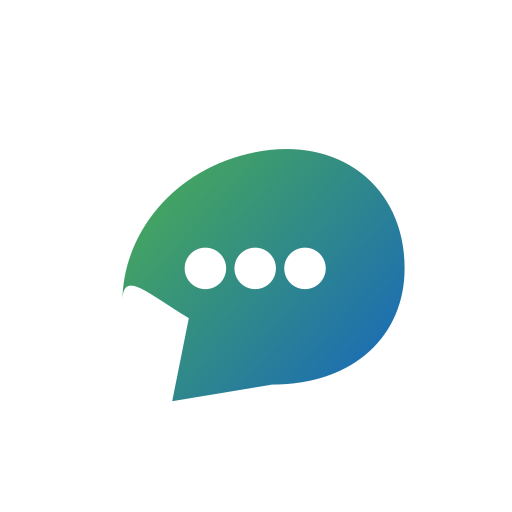
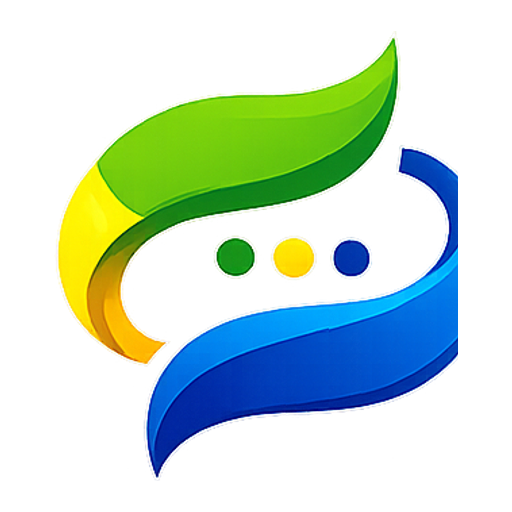
Preenche dados jurídicos reais e remove identidade do produto comercial do painel
Termos de Uso, Política de Privacidade e Exclusão de Dados: preenche
razão social, CNPJ, e-mail de suporte e e-mail do DPO com os dados
reais da empresa, e remove os banners amarelos de placeholder (os
pontos que ainda exigem decisão jurídica/comercial específica — valor
dos planos e prazo de retenção pós-eleição — ficam como TODO mais
direcionado, para revisão com a advogada).

PWA do painel: o manifest.json, o título da aba, o texto do botão de
instalação e os ícones (192/512) ainda eram os do produto SyncroFlow
comercial — o usuário instalando o app via navegador via "SyncroFlow"
genérico com o ícone de balão de chat, não "SyncroFlowEleições". Gera
novos ícones a partir do logo eleitoral e atualiza nome/descrição em
todos os pontos.

Remove também o Meta Pixel e o Google Analytics do layout do painel
eleitoral — eram os mesmos IDs do produto comercial, misturando
métricas de tráfego entre os dois produtos. Removido apenas do painel
eleitoral; o código permanece intacto para uso no produto comercial.

diff --git a/apps/landing/privacidade.html b/apps/landing/privacidade.html
@@ -51,19 +51,17 @@
 <div class="container">
   <div class="doc-header">
     <h1>Política de Privacidade</h1>
-    <p class="meta">Última atualização: <strong><!-- TODO: data real --></strong> &nbsp;|&nbsp; Versão 1.0 &nbsp;|&nbsp; Em conformidade com a <strong>LGPD (Lei nº 13.709/2018)</strong> e a <strong>Resolução TSE nº 23.755/2026</strong></p>
+    <p class="meta">Última atualização: <strong>27 de junho de 2026</strong> &nbsp;|&nbsp; Versão 1.0 &nbsp;|&nbsp; Em conformidade com a <strong>LGPD (Lei nº 13.709/2018)</strong> e a <strong>Resolução TSE nº 23.755/2026</strong></p>
   </div>
-
-  <div class="todo">⚠ TODO JURÍDICO: documento placeholder. Revisar com advogado especializado em LGPD e direito eleitoral antes da publicação, especialmente as seções de retenção de dados de eleitores e compartilhamento com provedores de IA.</div>
 
   <div class="highlight">
     <p>Esta Política descreve como o SyncroFlowEleições coleta, usa, armazena e protege os dados pessoais de candidatos, suas equipes de campanha e dos eleitores que interagem com o assistente virtual.</p>
   </div>
 
   <h2>1. Quem Somos (Controlador de Dados)</h2>
-  <p><strong>Razão social:</strong> <!-- TODO: razão social e CNPJ --><br>
+  <p><strong>Razão social:</strong> Glaucio Luiz Pimentel de Oliveira, CNPJ 37.815.890/0001-08 (nome fantasia NuClick Sistemas)<br>
   <strong>Plataforma:</strong> SyncroFlowEleições<br>
-  <strong>E-mail do Encarregado (DPO):</strong> <!-- TODO: e-mail do DPO --></p>
+  <strong>E-mail do Encarregado (DPO):</strong> mendespimenteladv@gmail.com (Dra. Ana Paula Mendes Pimentel)</p>
 
   <h2>2. Quais Dados Coletamos</h2>
 
@@ -108,7 +106,7 @@
   <h2>3. Cookies e Tecnologias de Rastreamento</h2>
   <ul>
     <li><strong>Cookies essenciais:</strong> necessários para o funcionamento da plataforma (autenticação, sessão). Não podem ser desativados.</li>
-    <li><strong>Cookies analíticos/marketing:</strong> <!-- TODO: declarar ferramentas de analytics/pixel próprias do SyncroFlowEleições, se houver --></li>
+    <li><strong>Cookies analíticos/marketing:</strong> <!-- TODO: declarar aqui se/quando ferramentas de analytics ou pixel próprias do SyncroFlowEleições forem adicionadas (hoje a landing não usa nenhuma) --></li>
   </ul>
 
   <h2>4. Como Usamos os Dados</h2>
@@ -125,7 +123,7 @@
   <div class="table-wrap">
     <table>
       <tr><th>Parceiro / Serviço</th><th>Finalidade</th><th>Onde está</th></tr>
-      <tr><td>Supabase</td><td>Banco de dados e autenticação</td><td><!-- TODO: confirmar região do projeto novo --></td></tr>
+      <tr><td>Supabase</td><td>Banco de dados e autenticação</td><td>Estados Unidos (Ohio — us-east-2)</td></tr>
       <tr><td>Stripe</td><td>Processamento de pagamentos</td><td>Estados Unidos</td></tr>
       <tr><td>Anthropic / OpenAI</td><td>Processamento de mensagens pelo modelo de IA</td><td>Estados Unidos</td></tr>
       <tr><td>Meta (WhatsApp, Instagram, Facebook)</td><td>Envio/recebimento de mensagens via API oficial</td><td>Estados Unidos</td></tr>
@@ -140,7 +138,7 @@
       <tr><th>Tipo de dado</th><th>Prazo de retenção</th></tr>
       <tr><td>Dados de conta ativa</td><td>Enquanto a conta estiver ativa</td></tr>
       <tr><td>Histórico de conversas durante o período eleitoral</td><td><strong>Não pode ser excluído durante o período eleitoral</strong> — preservação obrigatória para auditoria conforme a Resolução TSE nº 23.755/2026</td></tr>
-      <tr><td>Logs de auditoria</td><td><!-- TODO: definir prazo pós-eleição em conformidade com orientação do TSE --></td></tr>
+      <tr><td>Logs de auditoria</td><td><!-- TODO JURÍDICO: definir prazo de retenção pós-eleição em conformidade com orientação do TSE, a confirmar com a Dra. Ana Paula Mendes Pimentel --></td></tr>
       <tr><td>Dados fiscais e financeiros</td><td>5 anos (obrigação legal)</td></tr>
     </table>
   </div>
@@ -163,7 +161,7 @@
     <li><strong>Portabilidade</strong> dos dados a outro fornecedor.</li>
     <li><strong>Revogação do consentimento</strong>, quando aplicável.</li>
   </ul>
-  <p>Para exercer esses direitos, envie solicitação para <!-- TODO: e-mail de contato -->. Responderemos em até 15 dias úteis.</p>
+  <p>Para exercer esses direitos, envie solicitação para syncrofloweleicoes@gmail.com. Responderemos em até 15 dias úteis.</p>
 
   <h2>9. Dados de Menores</h2>
   <p>O SyncroFlowEleições não é destinado ao cadastro de candidatos menores de 18 anos. Eleitores menores podem interagir com o assistente para fins informativos, sob as mesmas restrições de conteúdo aplicadas a qualquer eleitor.</p>
@@ -174,7 +172,7 @@
   <h2>11. Contato — Encarregado de Dados (DPO)</h2>
   <p>Para dúvidas, solicitações de direitos ou reclamações:</p>
   <ul>
-    <li>E-mail: <!-- TODO: e-mail real --></li>
+    <li>E-mail: mendespimenteladv@gmail.com</li>
   </ul>
   <p>Você também pode registrar reclamações perante a Autoridade Nacional de Proteção de Dados (ANPD) em <a href="https://www.gov.br/anpd" target="_blank">gov.br/anpd</a>.</p>
 </div>

diff --git a/apps/landing/termos.html b/apps/landing/termos.html
@@ -45,17 +45,15 @@
 <div class="container">
   <div class="doc-header">
     <h1>Termos e Condições de Uso</h1>
-    <p class="meta">Última atualização: <strong><!-- TODO: data real da publicação --></strong> &nbsp;|&nbsp; Versão 1.0</p>
+    <p class="meta">Última atualização: <strong>27 de junho de 2026</strong> &nbsp;|&nbsp; Versão 1.0</p>
   </div>
-
-  <div class="todo">⚠ TODO JURÍDICO: este documento é um placeholder estrutural. Deve ser revisado por advogado especializado em direito eleitoral e LGPD antes da publicação — em especial as cláusulas de responsabilidade do agente de IA e o tratamento de dados de eleitores.</div>
 
   <div class="highlight">
     <p>Leia estes Termos com atenção antes de usar a plataforma SyncroFlowEleições. Ao criar uma conta ou utilizar qualquer funcionalidade, você (o candidato ou sua equipe de campanha) concorda integralmente com estas condições.</p>
   </div>
 
   <h2>1. Das Partes</h2>
-  <p><strong>Contratada:</strong> <!-- TODO: razão social, CNPJ e endereço do operador --> ("SyncroFlowEleições"), responsável pela operação da plataforma, acessível em <!-- TODO: domínio definitivo -->.</p>
+  <p><strong>Contratada:</strong> Glaucio Luiz Pimentel de Oliveira, inscrito no CNPJ 37.815.890/0001-08, nome fantasia NuClick Sistemas ("SyncroFlowEleições"), responsável pela operação da plataforma, acessível em syncrofloweleicoes.com.br.</p>
   <p><strong>Contratante (Usuário):</strong> Candidato(a) a cargo eletivo, ou pessoa por ele(a) autorizada, que cria uma conta e utiliza os serviços da plataforma para fins de campanha eleitoral.</p>
 
   <h2>2. Do Objeto</h2>
@@ -72,7 +70,7 @@
     <li>O cadastro é restrito a candidatos(as) a cargo eletivo ou seus representantes legalmente autorizados.</li>
     <li>O Usuário é responsável pela veracidade das informações fornecidas no cadastro, incluindo CPF e número de candidato.</li>
     <li>As credenciais de acesso são pessoais e intransferíveis.</li>
-    <li><!-- TODO: e-mail/canal de suporte real --></li>
+    <li>Suporte: syncrofloweleicoes@gmail.com ou (32) 98829-0229.</li>
   </ul>
 
   <h2>4. Da Criação da Conta e do Pagamento</h2>
@@ -80,7 +78,7 @@
 
   <h2>5. Dos Planos e Pagamentos</h2>
   <ul>
-    <li><!-- TODO: valores e condições dos planos Campanha/Mandato --></li>
+    <li><!-- TODO JURÍDICO/COMERCIAL: descrever aqui os valores e condições vigentes dos planos Campanha e Mandato (hoje: Plano Campanha R$ 3.470,00/mês; linha adicional de WhatsApp R$ 497,00/mês; Plano Mandato ainda não lançado) --></li>
     <li>Os pagamentos são processados por meio de plataforma de pagamento segura (Stripe). O SyncroFlowEleições não armazena dados de cartão de crédito.</li>
     <li>O plano inclui uma cota de mensagens ativas por ciclo; mensagens passivas (respostas a eleitores que escrevem primeiro) nunca são limitadas.</li>
     <li>Não há reembolso de períodos já utilizados, salvo nas hipóteses previstas no Código de Defesa do Consumidor (CDC).</li>
@@ -118,7 +116,7 @@
   <h2>13. Do Contato</h2>
   <p>Para dúvidas, solicitações ou notificações relacionadas a estes Termos:</p>
   <ul>
-    <li>E-mail: <!-- TODO: e-mail de contato real --></li>
+    <li>E-mail: syncrofloweleicoes@gmail.com</li>
   </ul>
 </div>
 

diff --git a/apps/web/app/layout.tsx b/apps/web/app/layout.tsx
@@ -6,8 +6,6 @@ import { Providers } from './providers'
 
 const inter = Inter({ subsets: ['latin'] })
 
-const META_PIXEL_ID = '990433977062746'
-const GA_MEASUREMENT_ID = 'G-F346T28WVJ'
 const META_APP_ID = process.env.NEXT_PUBLIC_META_APP_ID
 
 export const viewport: Viewport = {
@@ -18,13 +16,13 @@ export const viewport: Viewport = {
 }
 
 export const metadata: Metadata = {
-  title: 'SyncroFlow — Atendimento Omnichannel com IA',
-  description: 'Plataforma SaaS de atendimento omnichannel com agentes de IA. WhatsApp, Instagram, Facebook e mais.',
+  title: 'SyncroFlowEleições — Assistente Virtual de Campanha',
+  description: 'Plataforma de assistente virtual com IA para campanhas eleitorais. WhatsApp, e-mail e mais, em conformidade com o TSE.',
   manifest: '/manifest.json',
   appleWebApp: {
     capable: true,
     statusBarStyle: 'default',
-    title: 'SyncroFlow',
+    title: 'SyncroFlowEleições',
   },
   other: {
     'mobile-web-app-capable': 'yes',
@@ -35,39 +33,6 @@ export default function RootLayout({ children }: { children: React.ReactNode }) 
   return (
     <html lang="pt-BR" suppressHydrationWarning>
       <head>
-        {/* Meta Pixel */}
-        <Script id="meta-pixel" strategy="afterInteractive">{`
-          !function(f,b,e,v,n,t,s)
-          {if(f.fbq)return;n=f.fbq=function(){n.callMethod?
-          n.callMethod.apply(n,arguments):n.queue.push(arguments)};
-          if(!f._fbq)f._fbq=n;n.push=n;n.loaded=!0;n.version='2.0';
-          n.queue=[];t=b.createElement(e);t.async=!0;
-          t.src=v;s=b.getElementsByTagName(e)[0];
-          s.parentNode.insertBefore(t,s)}(window, document,'script',
-          'https://connect.facebook.net/en_US/fbevents.js');
-          fbq('init', '${META_PIXEL_ID}');
-          fbq('track', 'PageView');
-        `}</Script>
-        <noscript>
-          {/* eslint-disable-next-line @next/next/no-img-element */}
-          <img height="1" width="1" style={{ display: 'none' }}
-            src={`https://www.facebook.com/tr?id=${META_PIXEL_ID}&ev=PageView&noscript=1`}
-            alt=""
-          />
-        </noscript>
-
-        {/* Google Analytics */}
-        <Script
-          src={`https://www.googletagmanager.com/gtag/js?id=${GA_MEASUREMENT_ID}`}
-          strategy="afterInteractive"
-        />
-        <Script id="google-analytics" strategy="afterInteractive">{`
-          window.dataLayer = window.dataLayer || [];
-          function gtag(){dataLayer.push(arguments);}
-          gtag('js', new Date());
-          gtag('config', '${GA_MEASUREMENT_ID}');
-        `}</Script>
-
         {/* Facebook JS SDK — usado pelo Embedded Signup do WhatsApp (Meta Cloud API) */}
         {META_APP_ID && (
           <>

diff --git a/apps/landing/exclusao-dados.html b/apps/landing/exclusao-dados.html
@@ -48,7 +48,7 @@
 <div class="container">
   <div class="doc-header">
     <h1>Exclusão de Dados</h1>
-    <p class="meta">Última atualização: <!-- TODO: data real --></p>
+    <p class="meta">Última atualização: 27 de junho de 2026</p>
   </div>
 
   <div class="highlight">
@@ -69,7 +69,7 @@
 
   <div class="step">
     <p><strong>2. Por e-mail</strong><br>
-    Envie uma solicitação para <!-- TODO: e-mail de contato --> com o assunto "Exclusão de dados", informando o e-mail cadastrado na sua conta. Responderemos em até 15 dias úteis, conforme previsto na LGPD.</p>
+    Envie uma solicitação para syncrofloweleicoes@gmail.com com o assunto "Exclusão de dados", informando o e-mail cadastrado na sua conta. Responderemos em até 15 dias úteis, conforme previsto na LGPD.</p>
   </div>
 
   <h2>O que é excluído imediatamente</h2>
@@ -90,7 +90,7 @@
   <p>Solicitações de exclusão são processadas em até <strong>15 dias úteis</strong>, observadas as restrições de retenção acima. Você receberá uma confirmação por e-mail quando a exclusão for concluída.</p>
 
   <h2>Dúvidas</h2>
-  <p>Para mais informações, consulte nossa <a href="/privacidade.html">Política de Privacidade</a> ou entre em contato pelo <!-- TODO: e-mail de contato -->.</p>
+  <p>Para mais informações, consulte nossa <a href="/privacidade.html">Política de Privacidade</a> ou entre em contato pelo syncrofloweleicoes@gmail.com.</p>
 </div>
 
 <footer>

diff --git a/apps/web/app/(auth)/pwa-banner.tsx b/apps/web/app/(auth)/pwa-banner.tsx
@@ -22,10 +22,10 @@ export function PwaInstallBanner() {
         const { outcome } = await prompt.userChoice
         if (outcome === 'accepted') setInstalled(true)
       }}
-      style={{ display:'flex', alignItems:'center', gap:'8px', width:'100%', marginTop:'16px', padding:'10px 16px', borderRadius:'12px', border:'1px solid #BFDBFE', background:'#EFF6FF', color:'#1565C0', fontSize:'14px', fontWeight:500, cursor:'pointer' }}
+      style={{ display:'flex', alignItems:'center', gap:'8px', width:'100%', marginTop:'16px', padding:'10px 16px', borderRadius:'12px', border:'1px solid #BFDBFE', background:'#EFF6FF', color:'#002776', fontSize:'14px', fontWeight:500, cursor:'pointer' }}
     >
       <Download style={{ width:16, height:16, flexShrink:0 }} />
-      <span>Instalar SyncroFlow no seu dispositivo</span>
+      <span>Instalar SyncroFlowEleições no seu dispositivo</span>
     </button>
   )
 }
